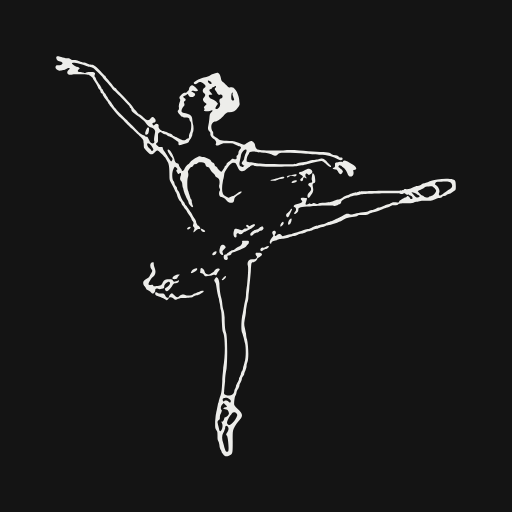
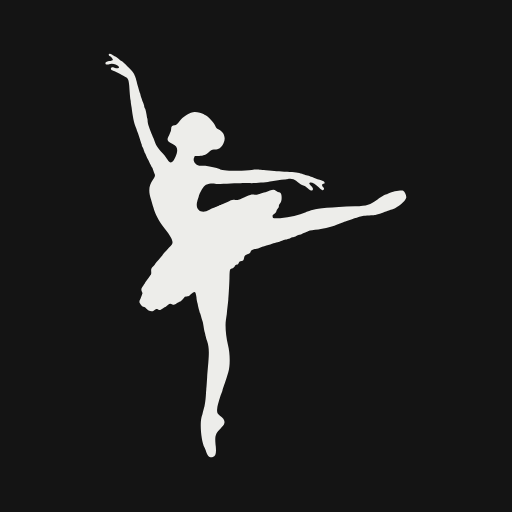
Чёткий силуэт балерины, демо-приглашение работает в любом браузере
- новый рисунок: сплошной силуэт, нарисован в Канве и переведён в вектор, чёткий при любом размере
- значки приложения перерисованы
- в демо ссылка-приглашение принимается в любом браузере

Claude-Session: https://claude.ai/code/session_01TpRBBa8e3pB2kawbtjk4Cd

Changed region(s): [[0.0938, 0.0938, 0.9062, 0.9062]]

diff --git a/sw.js b/sw.js
@@ -1,5 +1,5 @@
 // Офлайн-оболочка: файлы приложения берём из сети, а без сети из кэша. Запросы к серверу не кэшируем.
-const CACHE = 'ballet-forever-v4';
+const CACHE = 'ballet-forever-v5';
 const FILES = ['./', 'index.html', 'me/', 'me/index.html', 'config.js', 'vendor/supabase.js', 'assets/style.css', 'assets/core.js', 'assets/store.js', 'assets/app.js', 'assets/me.js', 'assets/ballerina.svg', 'icons/icon-192.png'];
 self.addEventListener('install', e => { e.waitUntil(caches.open(CACHE).then(c => c.addAll(FILES)).then(() => self.skipWaiting())); });
 self.addEventListener('activate', e => { e.waitUntil(caches.keys().then(keys => Promise.all(keys.filter(k => k !== CACHE).map(k => caches.delete(k)))).then(() => self.clients.claim())); });

diff --git a/assets/store.js b/assets/store.js
@@ -174,7 +174,7 @@ Store.card = async tok => {
 Store.join = async (invite, name) => {
   if (sb) return rpc('join_studio', { p_invite: invite, p_name: name });
   const x = demo.extra();
-  if (invite !== x.invite) throw new Error(ERR['invite not found']);
+  // в демо подходит любой код приглашения: преподаватель и ученица могут быть в разных браузерах
   const tok = BF.token();
   x.requests.push({ id: BF.uid(), kind: 'join', token: tok, payload: { name: name.trim() }, status: 'new', createdAt: new Date().toISOString() });
   demo.putExtra(x); return tok;
